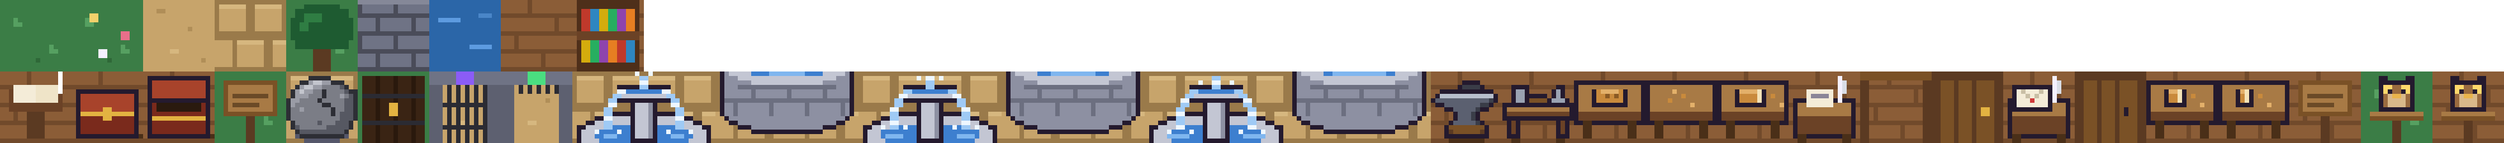
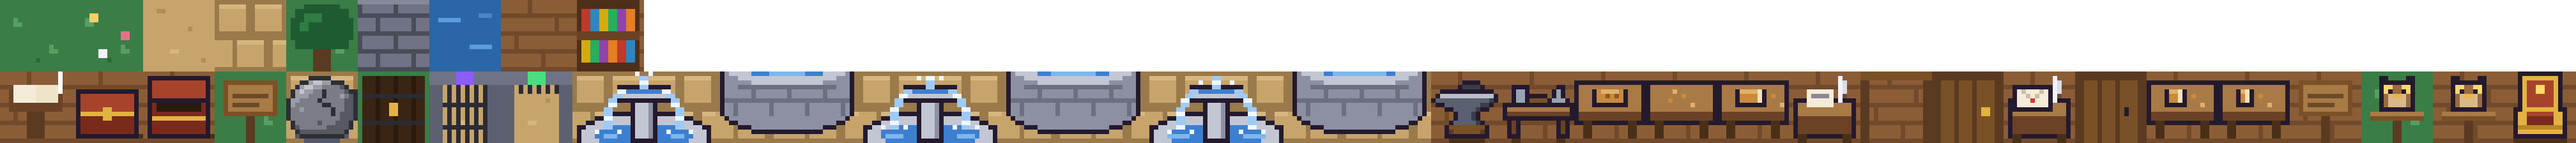
feat(art): an empty throne for the last room

diff --git a/app/src/game/sheets.ts b/app/src/game/sheets.ts
@@ -3,7 +3,7 @@ export const SHEETS = {
   dog: '/assets/dog.png?v=0be57c5f01',
   items: '/assets/items.png?v=1aff93fcbb',
   npcs: '/assets/npcs.png?v=48096e77bd',
-  tiles: '/assets/tiles.png?v=c810bef117',
+  tiles: '/assets/tiles.png?v=ec43d2008a',
   splash: '/assets/splash.png?v=40d2470162',
 } as const
 
